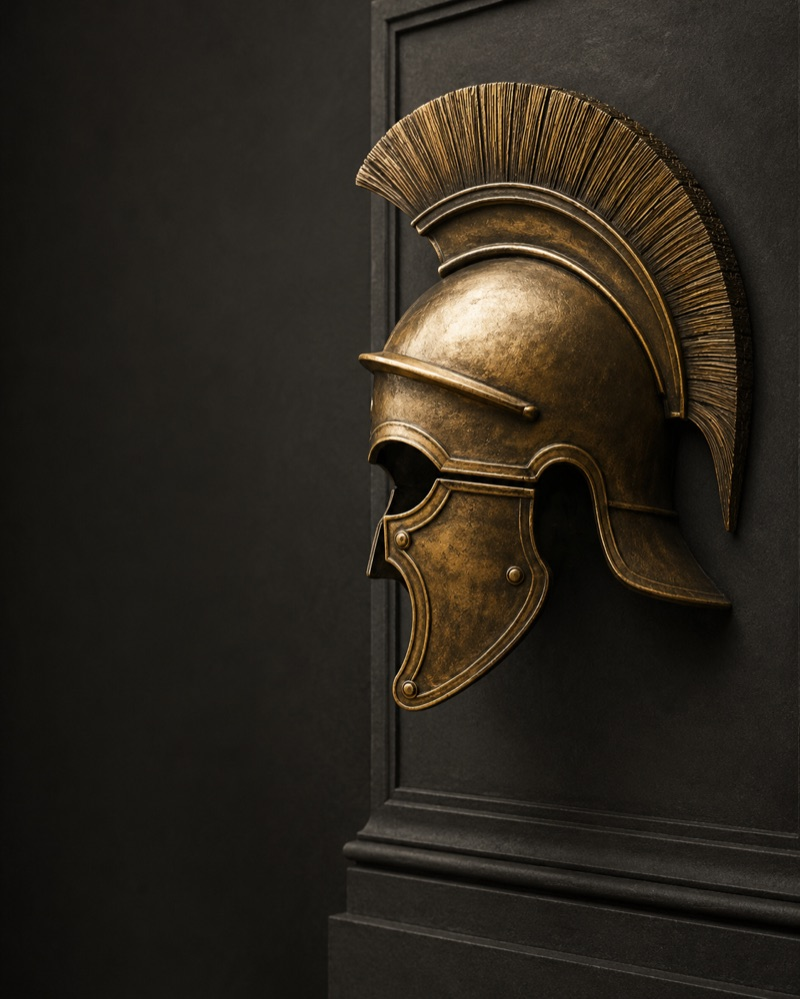
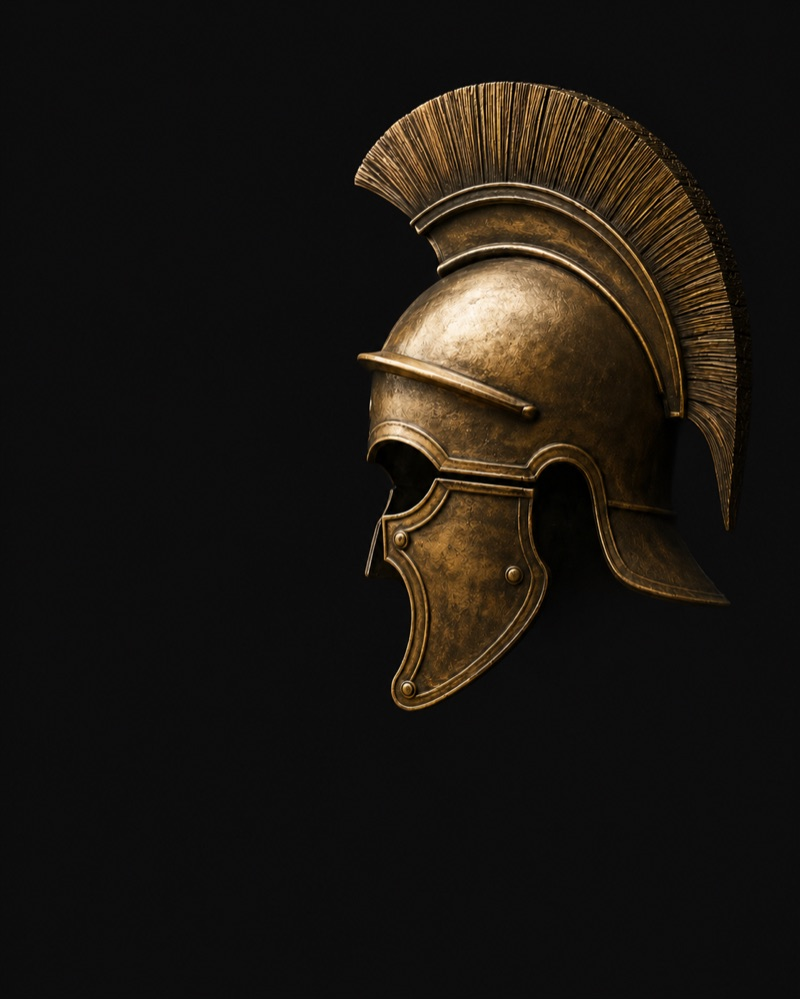
Обновить первый экран и изображение центуриона

diff --git a/site/assets/css/style.css b/site/assets/css/style.css
@@ -197,7 +197,10 @@ a:focus-visible {
   width: 100%;
   height: 100%;
   object-fit: cover;
-  object-position: 58% center;
+  object-position: 68% center;
+  transform: scale(1.16);
+  transform-origin: 72% center;
+  mix-blend-mode: lighten;
 }
 .fact-num {
   font-family: var(--font-display);
@@ -459,6 +462,9 @@ a:focus-visible {
   .hero-media {
     min-height: 0;
     aspect-ratio: 16 / 9;
+  }
+  .hero-media img {
+    transform: none;
   }
   .hero-facts {
     grid-template-columns: repeat(2, minmax(0, 1fr));

diff --git a/site/index.html b/site/index.html
@@ -38,7 +38,7 @@
     <div class="container hero-layout">
       <div class="hero-copy">
         <h1>Снижаем платёж по кредиту через суд — без банкротства</h1>
-        <p class="lead">Реструктуризация долга, банкротство, взыскание задолженности и защита
+        <p class="lead">Судебная реструктуризация, банкротство, взыскание задолженности и защита
           от субсидиарной ответственности — для физических и юридических лиц.
           Работаем в Москве и Московской области. Клиентов из других регионов принимаем
           при готовности приехать в Москву.</p>